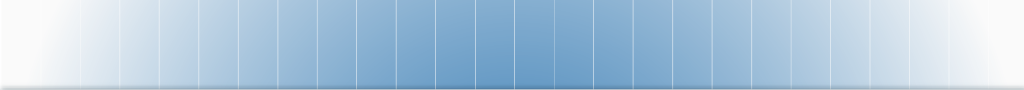
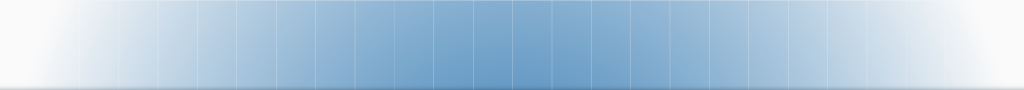
Top menu looks quite ok

Changed region(s): [[0.125, 0.9778, 0.9062, 1.0], [0.3438, 0.0, 0.6562, 0.0222]]

diff --git a/public/theme/style.css b/public/theme/style.css
@@ -18,68 +18,66 @@ body {
 {
   background: #fafafa url(images/gradientextent.png) repeat-x bottom center;
   color: #fafafa;
+  height: 90px;
 }
 
-#headerContainer div
+#headerContainer2
 {
   background: url(images/gradient.png) no-repeat bottom center;
   color: #fafafa;
   text-align: center;
-}
-
-#headerContainer div div
-{
-  background: none;
-  margin-left: auto;
-  margin-right: auto;
-}
-
-#headerContainer img
-{
-  // float: left;
+  height: 90px;
 }
 
 #nav
 {
-  // float:right;
-  height:25px;
-  padding:1px 13px 0 0;
+  background: none;
+  margin-left: auto;
+  margin-right: auto;
+  height: auto;
+  margin-top: auto;
+
+  //height: 25px;
+  padding: 50px 40px 0 0;
   text-align: center;
 
-  // centering, temporary 
-  margin-left:auto;
-  margin-right:auto;
-  width:400px;
+  width: 400px !important;
 }
+
 #nav ul {
-  display:inline;
-  list-style:none outside none;
-  margin:0;
-  padding:0;
+  display: inline;
+  list-style: none outside none;
+  margin: 0;
+  padding: 0;
 }
 #nav li {
-  float:left;
-  margin-left:1px;
+  float: left;
+  margin-left: 1px;
 }
 #nav li a {
-  background:url("images/nav_bg.gif") no-repeat scroll right top transparent;
-  float:left;
-  padding-right:13px;
-  text-decoration:none;
+  //background: url("/theme/images/ButtonTOP.png") no-repeat scroll right top transparent;
+  float: left;
+  padding-right: 13px;
+  text-decoration: none;
 }
-#nav li a:hover, #nav .active {
-  background:url("images/nav_bg.gif") no-repeat scroll right bottom transparent;
+#nav li a:hover, #nav .active, #nav .active span, #nav li a:hover span {
+  background:url("/theme/images/ButtonTOP.png") no-repeat scroll right bottom transparent;
+  color: #9fb3b5;
+  font-size: 22px;
 }
 #nav li a span {
-  background:url("images/nav_bg.gif") no-repeat scroll left top transparent;
-  color:#FFFFFF;
-  cursor:pointer;
-  display:block;
-  font-size:13px;
-  height:24px;
-  line-height:24px;
-  padding:0 0 0 13px;
-  text-decoration:none;
+  //background: url("/theme/images/ButtonTOP.png") no-repeat scroll left top transparent;
+  //color: #FFFFFF;
+  cursor: pointer;
+  display: block;
+  font-size: 18px;
+  height: 40px;
+  line-height: 40px;
+  padding: 0 0 0 13px;
+  text-decoration: none;
+  text-transform: uppercase;
+  font-weight: bold;
+  color: #fafafa;
 }
 
 .para {
@@ -122,9 +120,18 @@ body {
   font-size: 130%;
 }
 
+.logosmall
+{
+  position: absolute;
+  top: 10px;
+  left: 10px;
+}
+
 .contactabout
 {
-  //float: right;
+  position: absolute;
+  top: 10px;
+  right: 10px;
 }
 
 .contactabout, .contactabout a {
